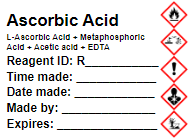
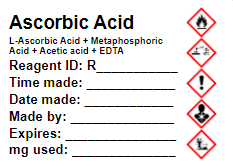
Added "mg used: ___..." to ascorbic acid label

diff --git a/Scripts/reagent-printing.js b/Scripts/reagent-printing.js
@@ -1,5 +1,5 @@
 // Define function to generate empty label
-function gen_reagent_label(pictogram, comm_name, full_name, reagent_id_text, time_text, date_text, creator_text, expiry_text) {
+function gen_reagent_label(pictogram, comm_name, full_name, reagent_id_text, time_text, date_text, creator_text, expiry_text, mg_used_text, reagent) {
     let label_contents = "";
     if (pictogram != "N/A") { // Pictogram
         label_contents = '<div class="label"><section style="width:80%;"><div class="reagent-label-content">\
@@ -9,8 +9,9 @@ function gen_reagent_label(pictogram, comm_name, full_name, reagent_id_text, tim
         <h4 class="label-text">'+time_text+'</h4>\
         <h4 class="label-text">'+date_text+'</h4>\
         <h4 class="label-text">'+creator_text+'</h4>\
-        <h4 class="label-text">'+expiry_text+'</h4></div></section>\
-        <section style="width:20%;height:90%;display:flex;justify-content:center;align-items:center;"><img src="../Images/Hazards/'+pictogram+'" style="max-width:100%; max-height:100%;"></section></div>';
+        <h4 class="label-text">'+expiry_text+'</h4>';
+        if (reagent=="ascorbic_solution") {label_contents+='<h4 class="label-text">'+mg_used_text+'</h4>'}
+        label_contents+='</div></section><section style="width:20%;height:90%;display:flex;justify-content:center;align-items:center;"><img src="../Images/Hazards/'+pictogram+'" style="max-width:100%; max-height:100%;"></section></div>';
     } else { // No pictogram
         label_contents = '<div class="label"><section style="width:100%;"><div class="reagent-label-content">\
         <h2 class="label-text">'+comm_name+'</h2>\
@@ -34,6 +35,7 @@ const label_time = "Time made: ____________";
 const label_date = "Date made: ____________";
 const label_creator = "Made by: ______________";
 const label_expiry = "Expires: _______________";
+const label_mg_used = "mg used: ______________";
 
 // Reagent dictionary
 const pictogram_dict = {
@@ -72,7 +74,7 @@ let page_contents = '<section class="labels">';
 
 // Make 18 labels
 for (let label_no=0; label_no<18; label_no++) {
-    page_contents += gen_reagent_label(pictogram_dict[reagent], comm_name[reagent], full_name[reagent], label_reagent_id, label_time, label_date, label_creator, label_expiry);
+    page_contents += gen_reagent_label(pictogram_dict[reagent], comm_name[reagent], full_name[reagent], label_reagent_id, label_time, label_date, label_creator, label_expiry, label_mg_used, reagent);
 }
 
 // End page and add append to site
